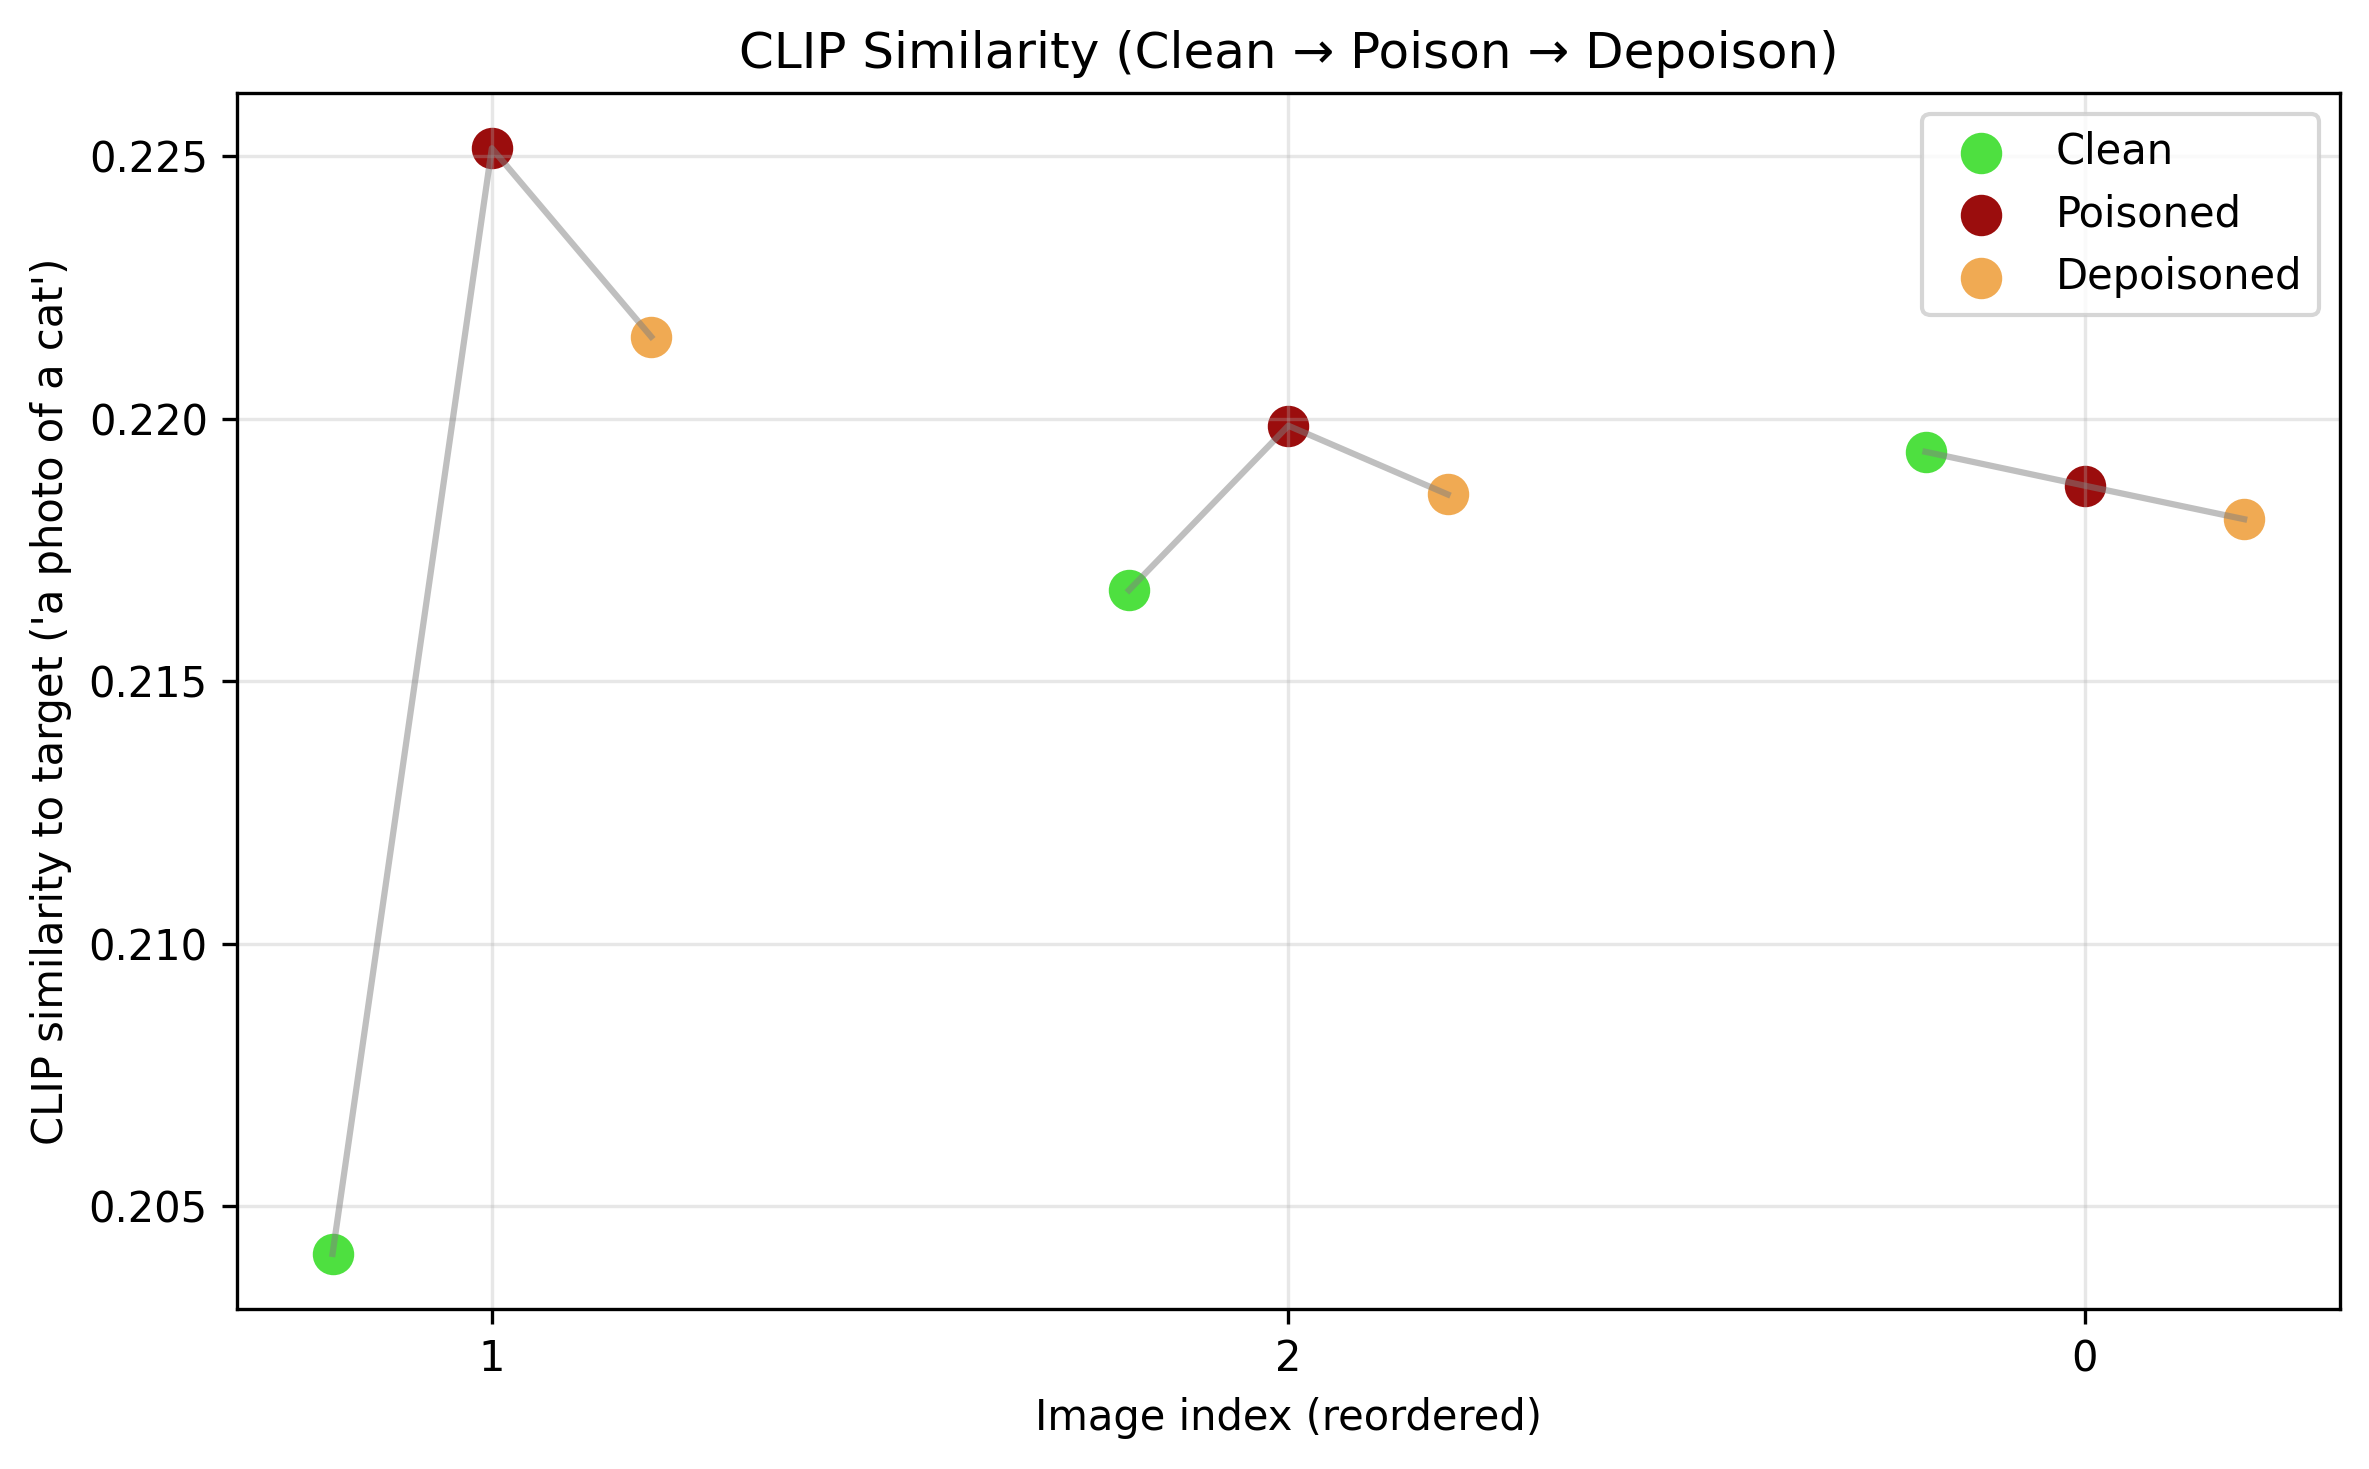
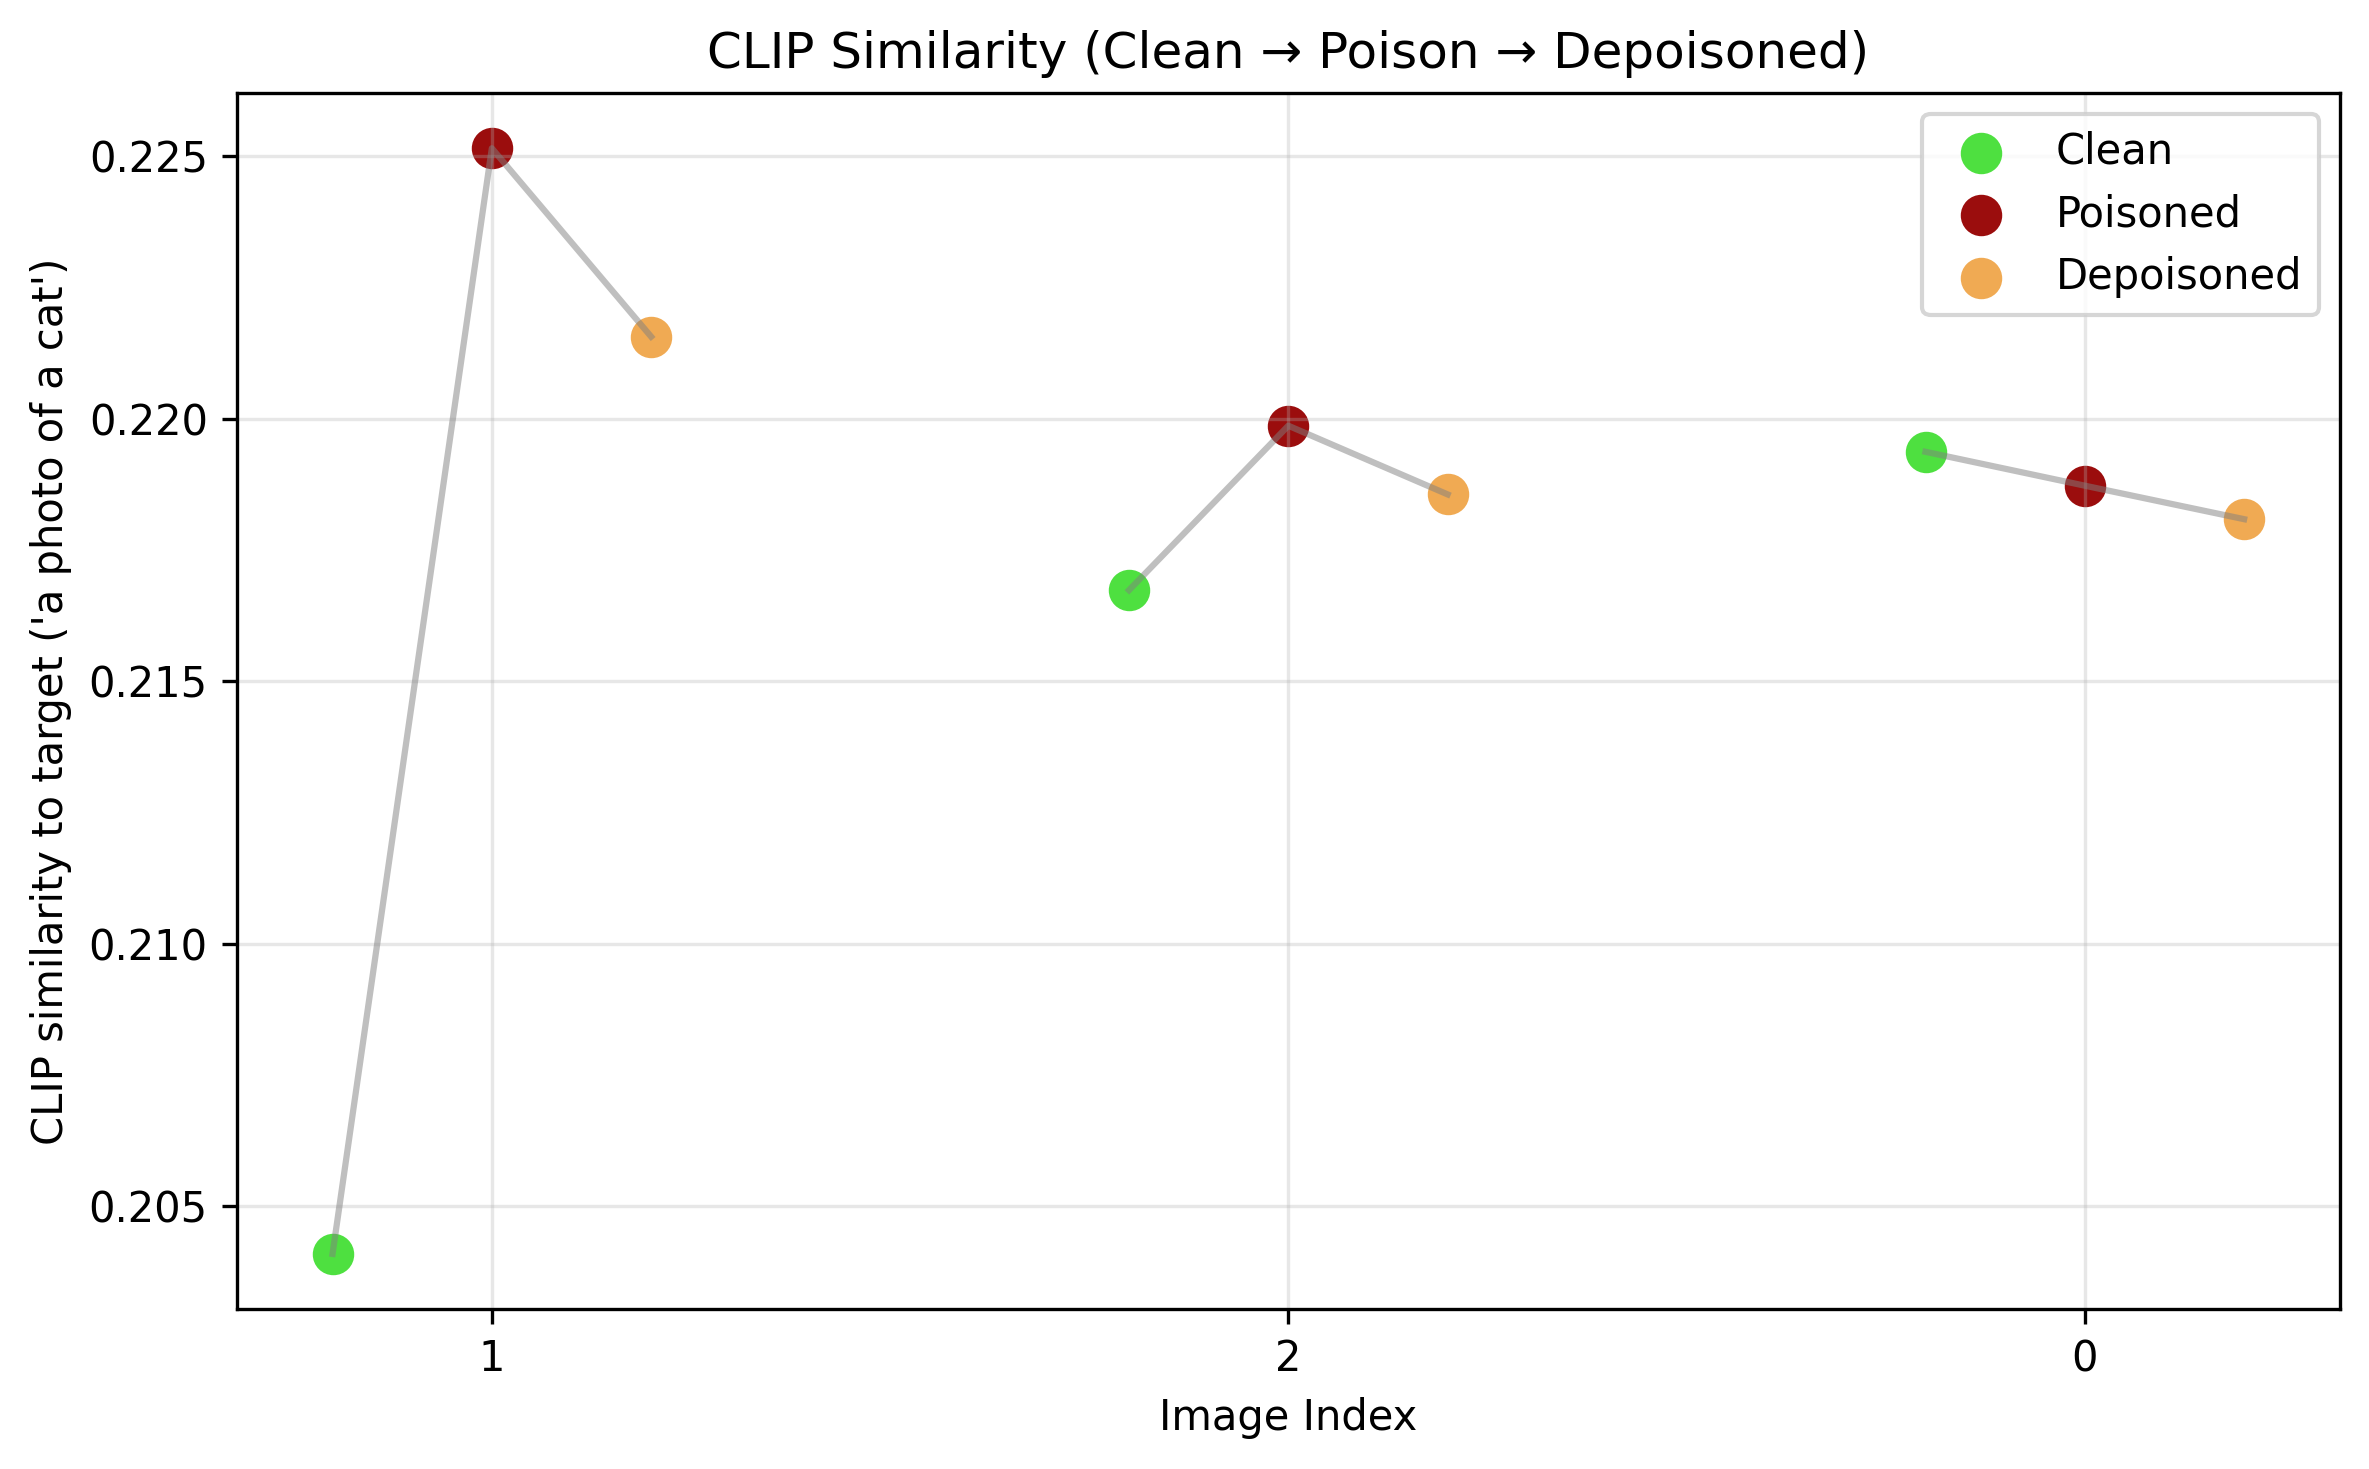
reorder clip

Changed region(s): [[0.3124, 0.0, 0.7809, 0.0613], [0.4373, 0.9496, 0.656, 0.9803]]

diff --git a/nightshade/clip2.py b/nightshade/clip2.py
@@ -72,9 +72,9 @@ def plot_points(clean, depoison, poison, max_samples=3, save_path=None):
         )
 
     plt.xticks(np.arange(n), [str(i) for i in order])
-    plt.xlabel("Image index (reordered)")
+    plt.xlabel("Image Index")
     plt.ylabel("CLIP similarity to target ('a photo of a cat')")
-    plt.title("CLIP Similarity (Clean → Poison → Depoison)")
+    plt.title("CLIP Similarity (Clean → Poison → Depoisoned)")
 
     plt.legend()
     plt.grid(alpha=0.3)
